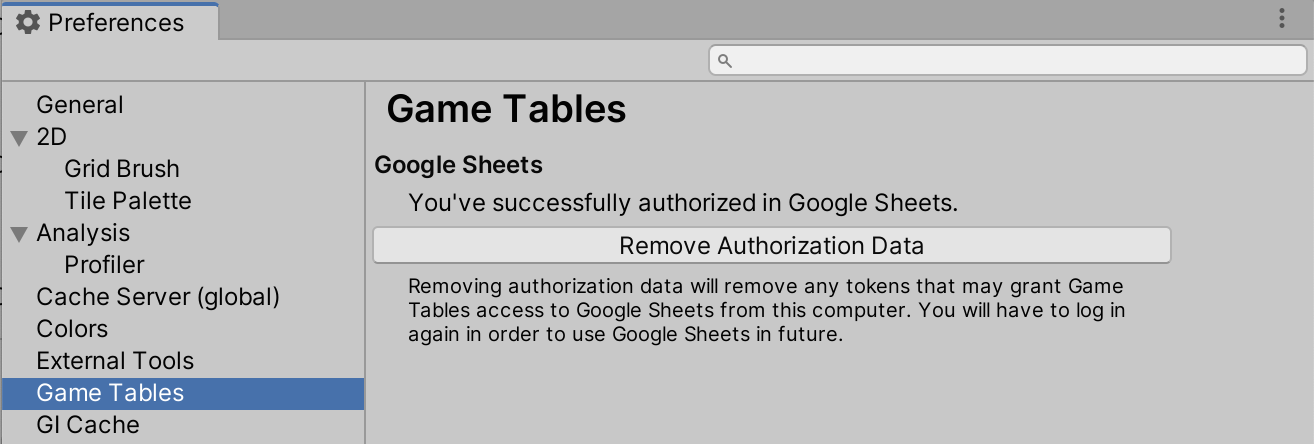
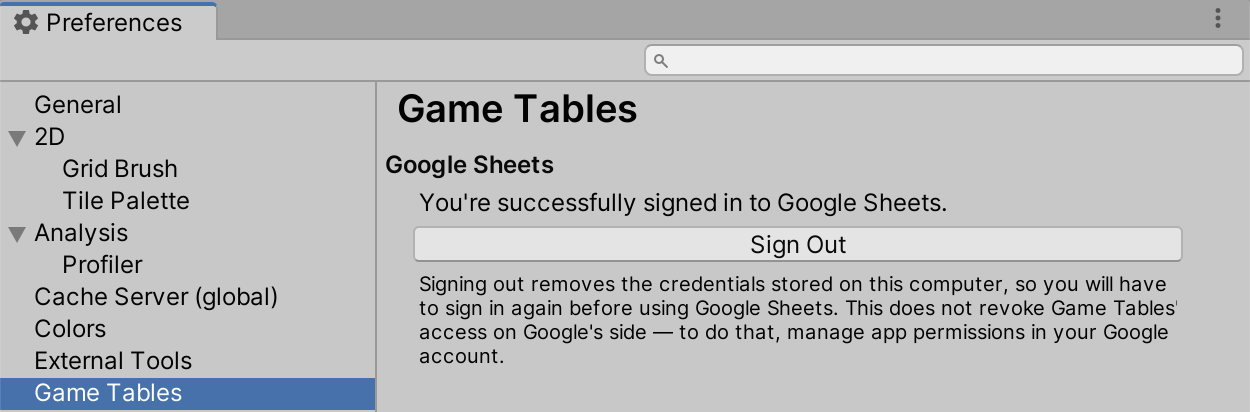
Improve Preferences

Changed region(s): [[0.2808, 0.3495, 0.9672, 0.9029], [0.0, 0.0, 1.0, 1.0]]

diff --git a/reference/preferences.md b/reference/preferences.md
@@ -3,10 +3,24 @@ parent: Reference
 nav_order: 5
 ---
 # Preferences
-![Game Tables Inspector UI]({{ site.baseurl }}{% link reference/preferences.png %})
+![Game Tables Preferences UI]({{ site.baseurl }}{% link reference/preferences.png %})
+
+Game Tables adds a *Game Tables* section to Unity's *Preferences* window (*Edit / Preferences* on Windows and Linux, *Unity / Settings* on macOS). The settings here are stored per user, not per project, so they apply to every project opened on this computer.
 
 ## Google Sheets
 
-This section contains settings related to Google Sheets.
+This section manages your Google account sign-in. Only one of the controls below is shown at a time, depending on the current state.
 
-The interface here depends on whether you already authorized in Google or not. 
+<a id="sign-in"></a> Sign In
+
+: Shown when you are not signed in. Starts the sign-in flow described in [Authorize in Google Sheets]({{ site.baseurl }}{% link guides/authorize_in_google_sheets.md %}).
+
+<a id="cancel"></a> Cancel
+
+: Shown while a sign-in request is in progress. Aborts the pending request and returns the section to the not-signed-in state.
+
+<a id="sign-out"></a> Sign Out
+
+: Shown when you are signed in. Deletes the credentials stored on this computer that grant Game Tables access to Google Sheets. After clicking it, you will need to sign in again before importing from Google Sheets.
+
+  | *Sign Out* only removes the locally stored credentials. It does not revoke the access grant on Google's side. To do that, visit your [Google account permissions page](https://myaccount.google.com/permissions). |

diff --git a/guides/authorize_in_google_sheets.md b/guides/authorize_in_google_sheets.md
@@ -16,8 +16,8 @@ To login Game Tables in Google perform the following steps:
 
 If you switch back to Unity during authorization process, Game Tables UI tells that it waits for authorization. If you want to restart this process, press the Cancel button. This make pending authorization request outdated. If you close Game Tables UI and re-open it before completing authorization process, you have to start it from the beginning.
 
-# Remove Authorization Data
+# Sign Out
 
-The authentication data is saved in your personal folder on the computer. This allows you to not re-authorize each time you using Game Tables. You can remove all the authentication data from the machine if you want. To do so, open the [Preferences]({{ site.baseurl }}{% link reference/preferences.md %}) window and click Remove Authorization Data.
+The credentials Game Tables receives from Google are saved in your personal folder on the computer, so you don't have to sign in again every time you use Game Tables. You can remove these credentials from the machine at any time. To do so, open the [Preferences]({{ site.baseurl }}{% link reference/preferences.md %}) window and click *Sign Out*.
 
 | Please, keep in mind that removing a file from system is not guarantee that it cannot be read by a someone. Do not share your personal computer account with anyone. If you want to be sure, that all sensitive data is removed, use specialized software or refer documentation on your operating system. |